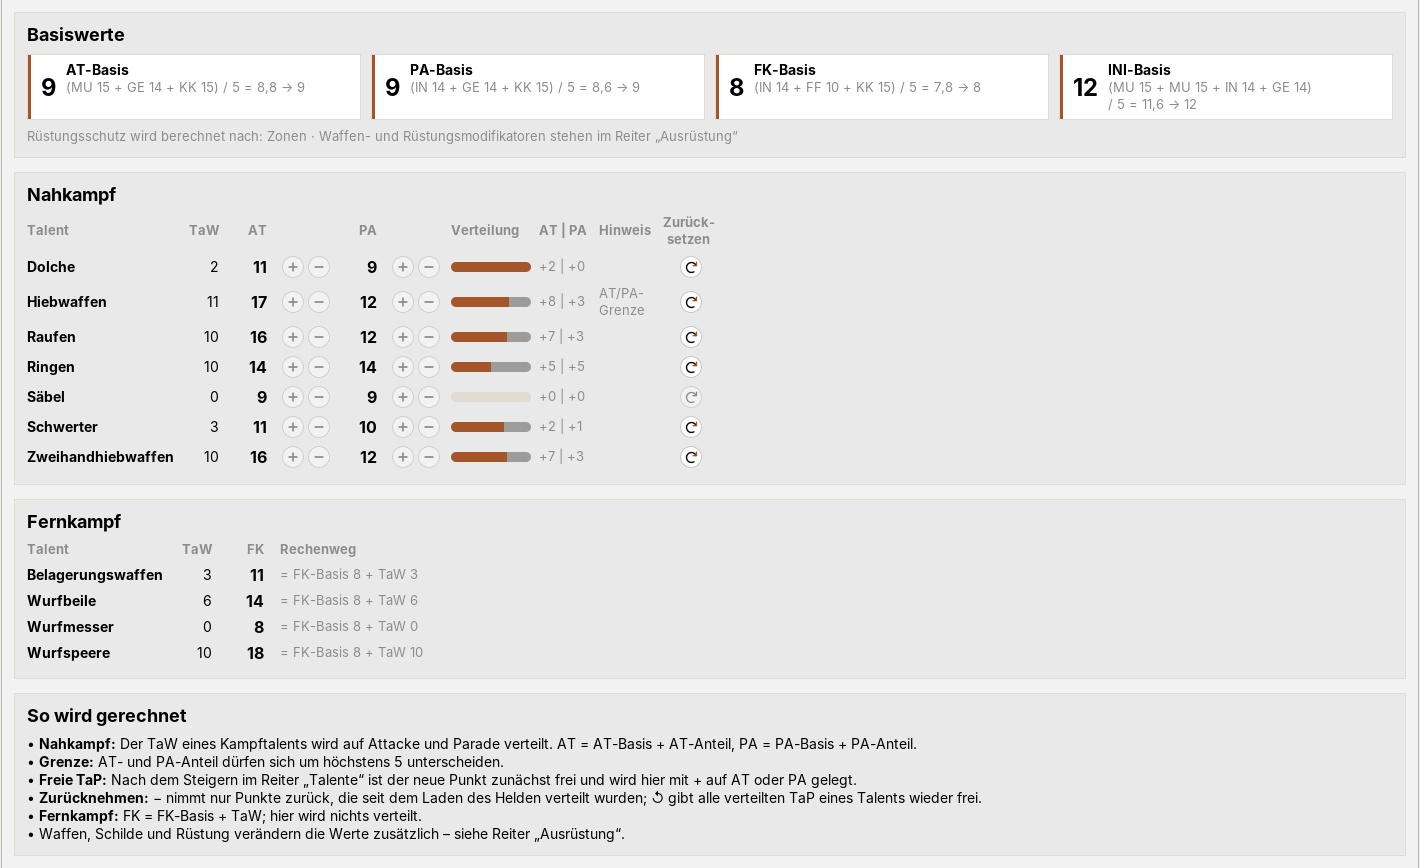
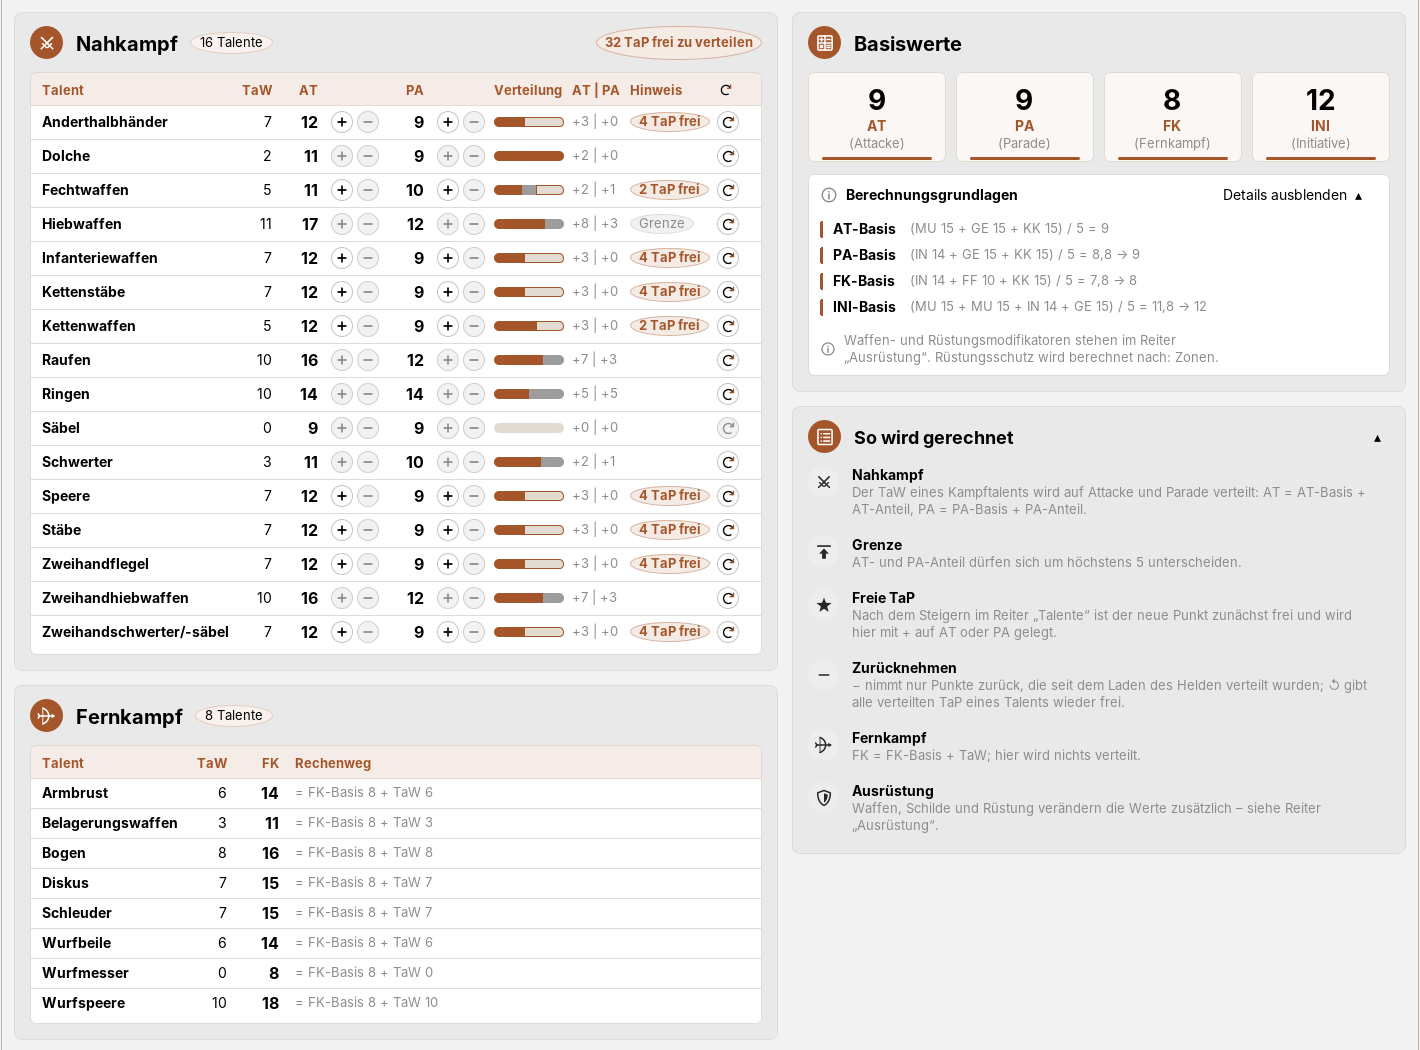
README: neue Bilder für Eigenschaften und Kampfwerte
Claude-Session: https://claude.ai/code/session_01XFsH5MfEcgtwerHLdGNyvK

diff --git a/README.md b/README.md
@@ -37,7 +37,8 @@ Steckbrief, Abenteuerpunkte mit Herkunft und *AP hinzufügen …*, Vor-/Nachteil
 
 ### Eigenschaften
 
-Eigenschaften mit Kosten und Verwendung, LE/AU/AE/MR mit Rechenweg, Kampf-Basiswerte, Sozialstatus und Gilde.
+Abenteuerpunkte, Eigenschaften als Kacheln mit Steigern und Zurücknehmen, LE/AU/AE/MR mit Rechenweg, Kampf-Basiswerte,
+Sozialstatus und Gilde.
 
 ![Reiter „Eigenschaften“ im modernen Design](docs/bilder/eigenschaften.png)
 
@@ -63,7 +64,7 @@ beidhändig und Jagdwaffe per Schalter, „Werte …“ und Ablegen direkt; *Bea
 
 ### Kampfwerte
 
-Basiswerte mit Formel, AT/PA-Verteilung als Balken samt Regeln, Fernkampf mit Rechenweg.
+AT/PA-Verteilung als Balken mit freien TaP, Basiswerte mit Formel, Fernkampf mit Rechenweg; ordnet sich nach Fensterbreite an.
 
 ![Reiter „Kampfwerte“ im modernen Design](docs/bilder/kampfwerte.png)
 
